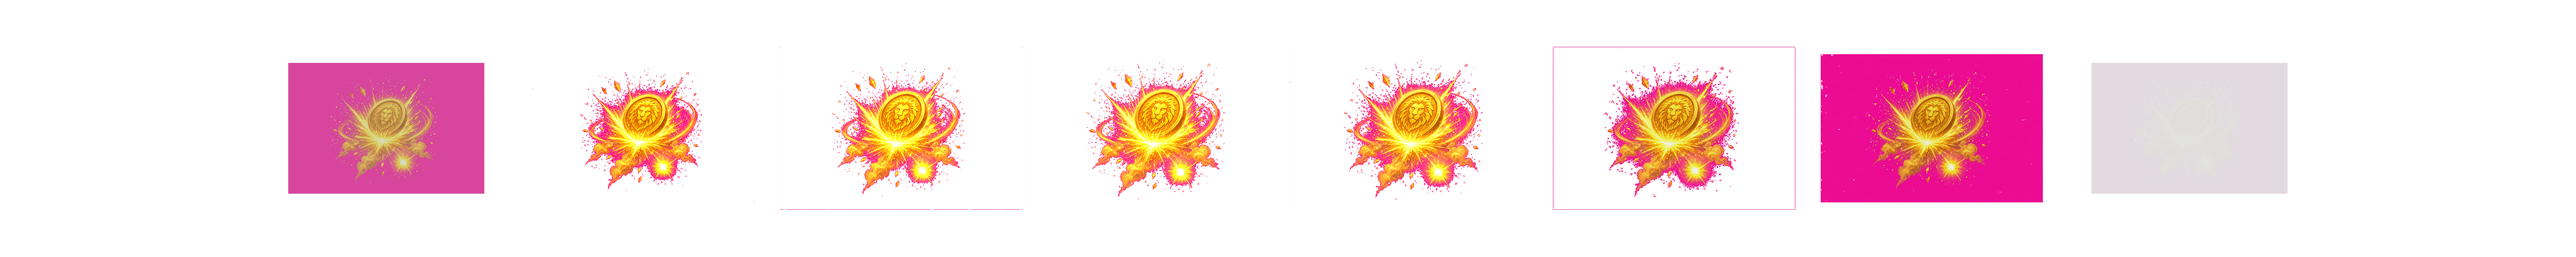
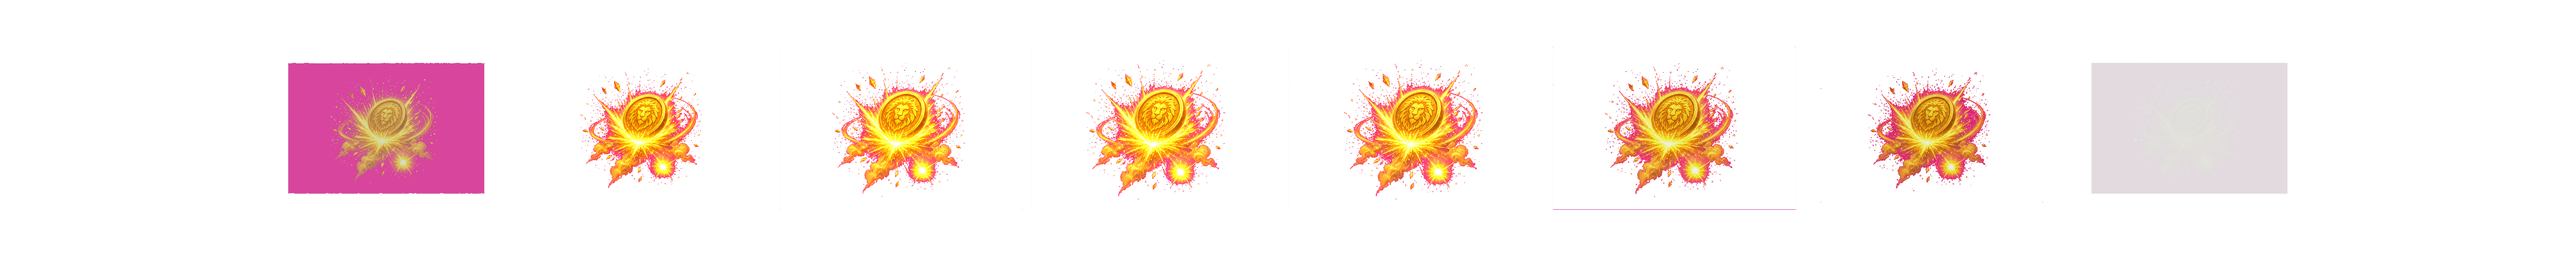
fix gentler magenta key on coin VFX strips (v0.007)

diff --git a/fantasy_arena/index.html b/fantasy_arena/index.html
@@ -4,7 +4,7 @@
 <meta charset="UTF-8" />
 <meta name="viewport" content="width=device-width, initial-scale=1" />
 <title>판타지 아레나</title>
-<link rel="stylesheet" href="css/game.css?v=0.006" />
+<link rel="stylesheet" href="css/game.css?v=0.007" />
 </head>
 <body>
 <button class="bgm-btn" id="bgmBtn" title="모험 BGM">♪</button>
@@ -157,15 +157,15 @@
 </div>
 
 
-<script src="js/cards-data.js?v=0.006"></script>
-<script src="js/cards-minions.js?v=0.006"></script>
-<script src="js/vfx.js?v=0.006"></script>
-<script src="js/bgm.js?v=0.006"></script>
-<script src="js/sfx.js?v=0.006"></script>
-<script src="js/settings.js?v=0.006"></script>
-<script src="js/render.js?v=0.006"></script>
-<script src="js/combat.js?v=0.006"></script>
-<script src="js/spell-fx.js?v=0.006"></script>
-<script src="js/game.js?v=0.006"></script>
+<script src="js/cards-data.js?v=0.007"></script>
+<script src="js/cards-minions.js?v=0.007"></script>
+<script src="js/vfx.js?v=0.007"></script>
+<script src="js/bgm.js?v=0.007"></script>
+<script src="js/sfx.js?v=0.007"></script>
+<script src="js/settings.js?v=0.007"></script>
+<script src="js/render.js?v=0.007"></script>
+<script src="js/combat.js?v=0.007"></script>
+<script src="js/spell-fx.js?v=0.007"></script>
+<script src="js/game.js?v=0.007"></script>
 </body>
 </html>

diff --git a/fantasy_arena/js/game.js b/fantasy_arena/js/game.js
@@ -1,4 +1,4 @@
-const GAME_VERSION = "0.006";
+const GAME_VERSION = "0.007";
 window.GAME_VERSION = GAME_VERSION;
 
 function uid() { return Math.random().toString(36).slice(2, 9); }
